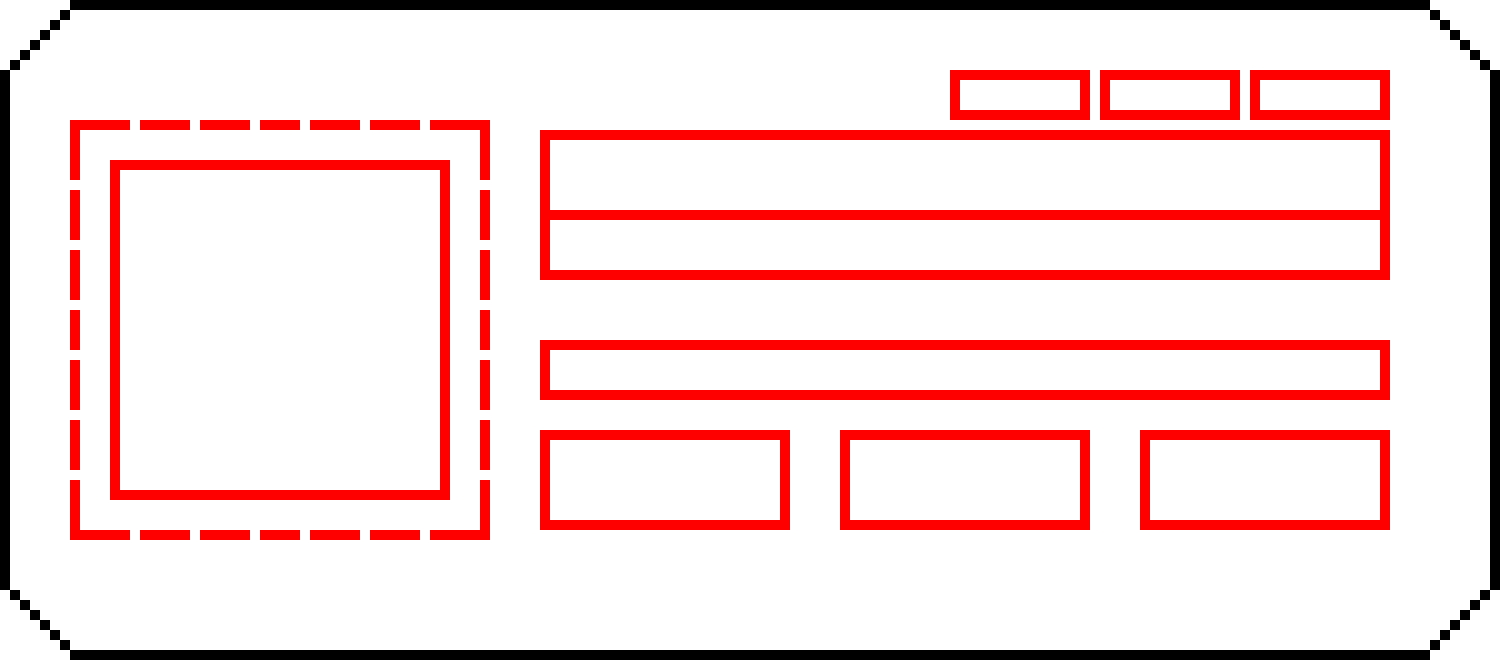
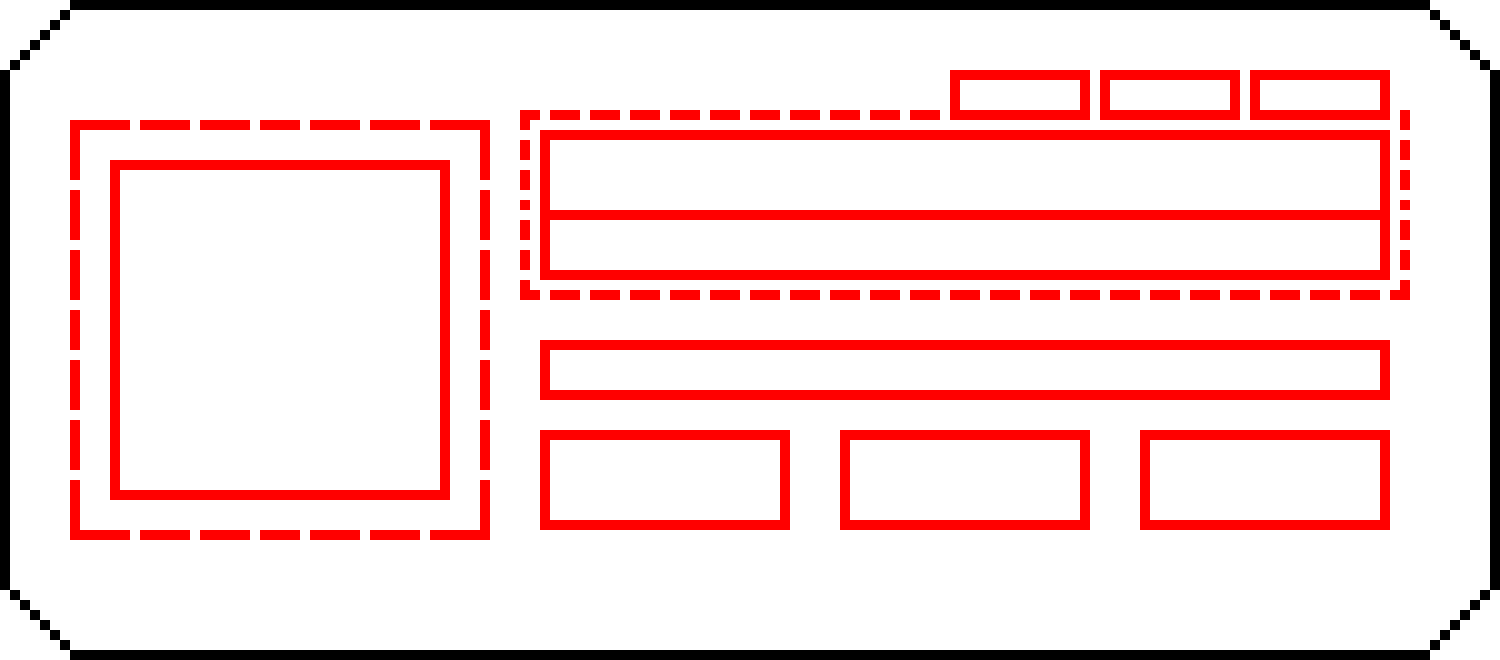
Update background image and adjust text positioning in playback window

Changed region(s): [[0.3373, 0.1515, 0.9507, 0.4545]]

diff --git a/main.cpp b/main.cpp
@@ -428,11 +428,11 @@ LRESULT CALLBACK WindowProc(HWND hwnd, UINT uMsg, WPARAM wParam, LPARAM lParam) 
             HFONT hFontArtist = CreateFontW(18, 0, 0, 0, FW_NORMAL, FALSE, FALSE, FALSE, DEFAULT_CHARSET, OUT_OUTLINE_PRECIS,
                     CLIP_DEFAULT_PRECIS, CLEARTYPE_QUALITY, VARIABLE_PITCH, L"Determination");
 
-            RECT titleRect = { 147, 34, 368, 62 };
+            RECT titleRect = { 150, 36, 368, 61 };
             HFONT hOldFont = (HFONT)SelectObject(hdc, hFontTitle);
             DrawTextW(hdc, title.c_str(), -1, &titleRect, DT_SINGLELINE | DT_NOPREFIX | DT_END_ELLIPSIS);
 
-            RECT artistRect = { 147, 57, 368, 100 };
+            RECT artistRect = { 150, 57, 368, 100 };
             SelectObject(hdc, hFontArtist);
             DrawTextW(hdc, artist.c_str(), -1, &artistRect, DT_SINGLELINE | DT_NOPREFIX | DT_END_ELLIPSIS);
 
